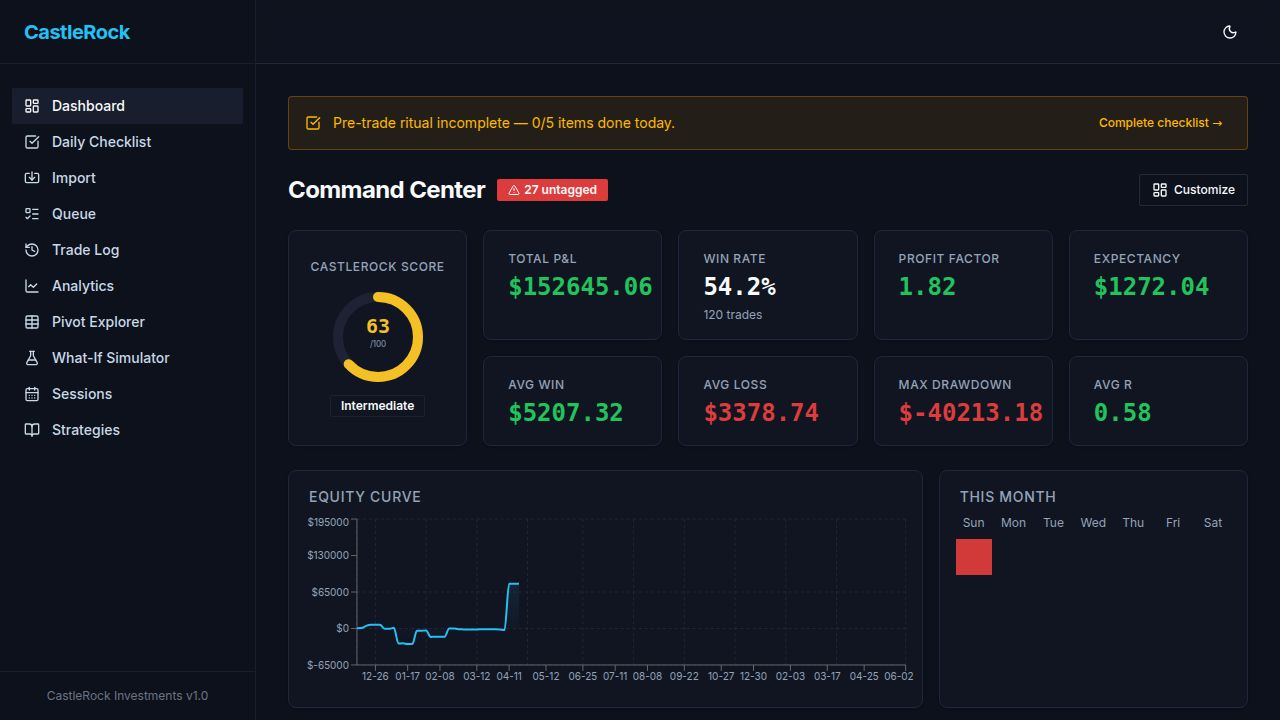
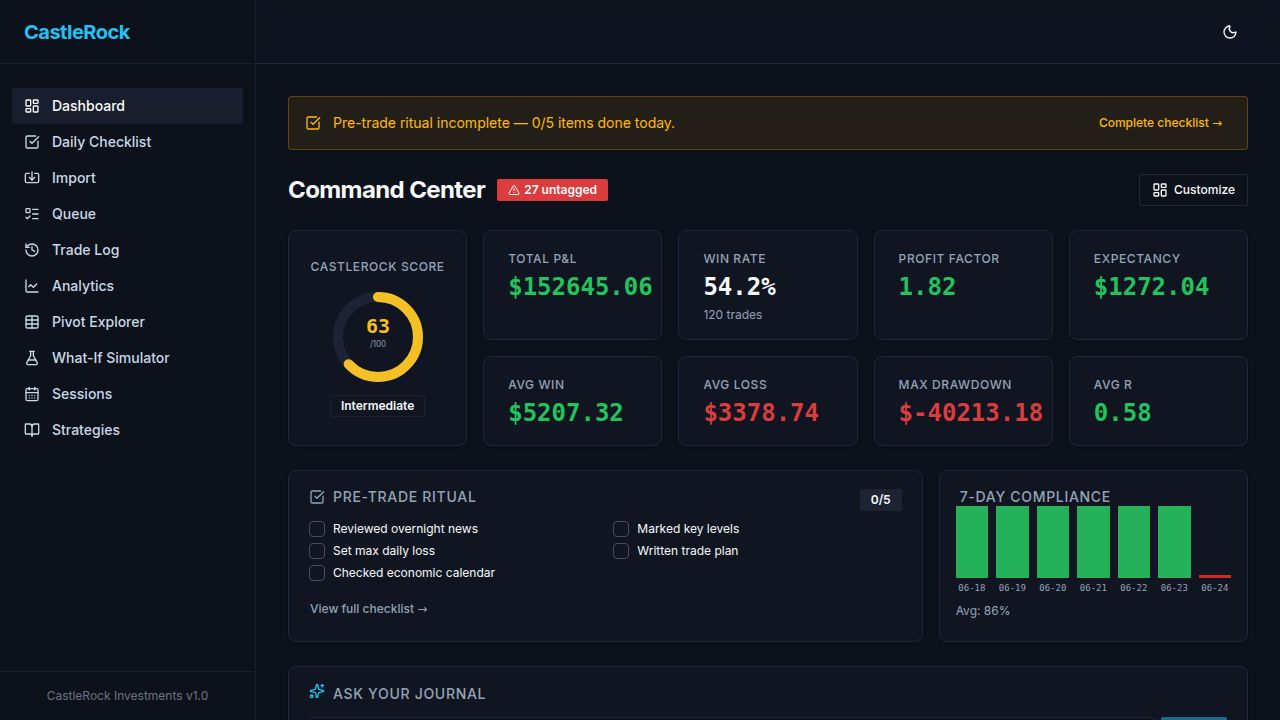
feat(task-16): R-Multiple Distribution histogram with normal curve overlay

diff --git a/artifacts/castlerock/src/pages/Analytics.tsx b/artifacts/castlerock/src/pages/Analytics.tsx
@@ -14,6 +14,7 @@ import { Tabs, TabsContent, TabsList, TabsTrigger } from "@/components/ui/tabs";
 import {
   BarChart, Bar, XAxis, YAxis, Tooltip, ResponsiveContainer, CartesianGrid,
   AreaChart, Area, Cell, PieChart, Pie, LineChart, Line, ReferenceLine,
+  ComposedChart,
 } from "recharts";
 import { ArrowUpRight, ArrowDownRight, Zap, Lightbulb, TrendingUp, TrendingDown, Brain, RefreshCw, Search, Sparkles, Clock, X } from "lucide-react";
 
@@ -22,6 +23,36 @@ const fmt = (n: number, prefix = "$") => `${prefix}${Math.abs(n).toFixed(2)}`;
 const pct = (n: number) => `${(n * 100).toFixed(1)}%`;
 
 const DOW_LABELS = ["Mon", "Tue", "Wed", "Thu", "Fri", "Sat", "Sun"];
+
+interface RDistBin {
+  label: string;
+  binStart: number;
+  binEnd: number;
+  midpoint: number;
+  count: number;
+  isProfit: boolean;
+  normalY?: number;
+}
+
+interface RDistStats {
+  avgR: number;
+  medianR: number;
+  pctAbove1R: number;
+  breakevenWinRate: number;
+  totalWithR: number;
+  stdDev: number;
+  mean: number;
+}
+
+interface RDistData {
+  bins: RDistBin[];
+  stats: RDistStats;
+}
+
+function normalPdf(x: number, mean: number, stdDev: number): number {
+  if (stdDev === 0) return 0;
+  return (1 / (stdDev * Math.sqrt(2 * Math.PI))) * Math.exp(-0.5 * Math.pow((x - mean) / stdDev, 2));
+}
 
 interface TimeCell {
   dayOfWeek: number;
@@ -191,6 +222,7 @@ export default function Analytics() {
   const [nlqHistory, setNlqHistory] = useState<string[]>(getNlqHistory);
 
   const [byTime, setByTime] = useState<TimeCell[]>([]);
+  const [rDist, setRDist] = useState<RDistData | null>(null);
   const [checklistCompliance, setChecklistCompliance] = useState<number | null>(null);
 
   useEffect(() => {
@@ -212,6 +244,27 @@ export default function Analytics() {
     fetch(`/api/analytics/by-time${qs.size ? "?" + qs.toString() : ""}`)
       .then((r) => r.ok ? r.json() : [])
       .then((data) => setByTime(Array.isArray(data) ? data : []))
+      .catch(() => {});
+  }, [dateFrom, dateTo]);
+
+  useEffect(() => {
+    const qs = new URLSearchParams();
+    if (dateFrom) qs.set("dateFrom", dateFrom);
+    if (dateTo) qs.set("dateTo", dateTo);
+    fetch(`/api/analytics/r-distribution${qs.size ? "?" + qs.toString() : ""}`)
+      .then((r) => r.ok ? r.json() : null)
+      .then((data: RDistData | null) => {
+        if (data && Array.isArray(data.bins)) {
+          const binSize = 0.5;
+          const binsWithCurve = data.bins.map((bin) => ({
+            ...bin,
+            normalY: normalPdf(bin.midpoint, data.stats.mean, data.stats.stdDev) * data.stats.totalWithR * binSize,
+          }));
+          setRDist({ ...data, bins: binsWithCurve });
+        } else {
+          setRDist(null);
+        }
+      })
       .catch(() => {});
   }, [dateFrom, dateTo]);
 
@@ -384,6 +437,99 @@ export default function Analytics() {
                   </CardContent>
                 </Card>
               </div>
+
+              {/* ── R-Multiple Distribution ── */}
+              <Card>
+                <CardHeader className="pb-2 pt-4 px-5">
+                  <CardTitle className="text-sm font-medium text-muted-foreground uppercase tracking-wider">R-Multiple Distribution</CardTitle>
+                  <p className="text-xs text-muted-foreground mt-0.5">Histogram of trade outcomes · normal curve overlay · based on trades with a defined stop loss</p>
+                </CardHeader>
+                <CardContent className="px-5 pb-5">
+                  {(!rDist || rDist.bins.length === 0) ? (
+                    <div className="h-40 flex items-center justify-center text-muted-foreground text-sm">
+                      No trades with R-multiples yet — add a stop loss to your trades to see this chart
+                    </div>
+                  ) : (
+                    <>
+                      {/* Stat callouts */}
+                      <div className="grid grid-cols-4 gap-3 mb-5">
+                        <div className="rounded-lg bg-muted/40 px-4 py-3 space-y-0.5">
+                          <p className="text-[10px] font-medium text-muted-foreground uppercase tracking-wider">Avg R</p>
+                          <p className={`text-lg font-bold font-mono tabular-nums ${rDist.stats.avgR >= 0 ? "text-success" : "text-destructive"}`}>
+                            {rDist.stats.avgR >= 0 ? "+" : ""}{rDist.stats.avgR.toFixed(2)}R
+                          </p>
+                        </div>
+                        <div className="rounded-lg bg-muted/40 px-4 py-3 space-y-0.5">
+                          <p className="text-[10px] font-medium text-muted-foreground uppercase tracking-wider">Median R</p>
+                          <p className={`text-lg font-bold font-mono tabular-nums ${rDist.stats.medianR >= 0 ? "text-success" : "text-destructive"}`}>
+                            {rDist.stats.medianR >= 0 ? "+" : ""}{rDist.stats.medianR.toFixed(2)}R
+                          </p>
+                        </div>
+                        <div className="rounded-lg bg-muted/40 px-4 py-3 space-y-0.5">
+                          <p className="text-[10px] font-medium text-muted-foreground uppercase tracking-wider">% Above 1R</p>
+                          <p className={`text-lg font-bold font-mono tabular-nums ${rDist.stats.pctAbove1R >= 0.3 ? "text-success" : "text-muted-foreground"}`}>
+                            {(rDist.stats.pctAbove1R * 100).toFixed(1)}%
+                          </p>
+                        </div>
+                        <div className="rounded-lg bg-muted/40 px-4 py-3 space-y-0.5">
+                          <p className="text-[10px] font-medium text-muted-foreground uppercase tracking-wider">Breakeven Win Rate</p>
+                          <p className="text-lg font-bold font-mono tabular-nums">
+                            {(rDist.stats.breakevenWinRate * 100).toFixed(1)}%
+                          </p>
+                          <p className="text-[10px] text-muted-foreground">needed to break even</p>
+                        </div>
+                      </div>
+
+                      {/* Histogram + normal curve */}
+                      <ResponsiveContainer width="100%" height={220}>
+                        <ComposedChart data={rDist.bins} margin={{ top: 4, right: 8, left: 0, bottom: 0 }}>
+                          <CartesianGrid strokeDasharray="3 3" stroke="hsl(var(--border))" vertical={false} />
+                          <XAxis
+                            dataKey="label"
+                            tick={{ fontSize: 9 }}
+                            interval={Math.max(0, Math.floor(rDist.bins.length / 12) - 1)}
+                            tickLine={false}
+                          />
+                          <YAxis tick={{ fontSize: 10 }} allowDecimals={false} width={28} />
+                          <Tooltip
+                            content={({ active, payload }) => {
+                              if (!active || !payload?.length) return null;
+                              const bin = payload[0]?.payload as RDistBin;
+                              return (
+                                <div className="bg-card border border-border rounded-lg shadow-lg px-3 py-2 text-xs space-y-0.5">
+                                  <p className="font-semibold">{bin.binStart >= 0 ? "+" : ""}{bin.binStart.toFixed(1)}R to {bin.binEnd >= 0 ? "+" : ""}{bin.binEnd.toFixed(1)}R</p>
+                                  <p className={bin.isProfit ? "text-success" : "text-destructive"}>{bin.count} trade{bin.count !== 1 ? "s" : ""}</p>
+                                </div>
+                              );
+                            }}
+                          />
+                          <ReferenceLine x="+0.0R" stroke="hsl(var(--muted-foreground))" strokeDasharray="4 3" strokeWidth={1.5} label={{ value: "0R", position: "top", fontSize: 9, fill: "hsl(var(--muted-foreground))" }} />
+                          <ReferenceLine x="+1.0R" stroke="hsl(var(--primary))" strokeDasharray="4 3" strokeWidth={1.5} label={{ value: "1R", position: "top", fontSize: 9, fill: "hsl(var(--primary))" }} />
+                          <Bar dataKey="count" maxBarSize={32} radius={[2, 2, 0, 0]}>
+                            {rDist.bins.map((bin, i) => (
+                              <Cell key={i} fill={bin.isProfit ? "hsl(var(--chart-2))" : "hsl(var(--chart-5))"} fillOpacity={0.85} />
+                            ))}
+                          </Bar>
+                          <Line
+                            dataKey="normalY"
+                            type="monotone"
+                            stroke="hsl(var(--primary))"
+                            strokeWidth={2}
+                            dot={false}
+                            strokeOpacity={0.7}
+                          />
+                        </ComposedChart>
+                      </ResponsiveContainer>
+                      <div className="flex items-center gap-4 mt-2 justify-end text-[10px] text-muted-foreground">
+                        <span className="flex items-center gap-1.5"><span className="inline-block w-3 h-3 rounded-sm bg-[hsl(var(--chart-2))]" />Profit</span>
+                        <span className="flex items-center gap-1.5"><span className="inline-block w-3 h-3 rounded-sm bg-[hsl(var(--chart-5))]" />Loss</span>
+                        <span className="flex items-center gap-1.5"><span className="inline-block w-4 h-0.5 bg-primary opacity-70" />Normal curve</span>
+                        <span className="text-muted-foreground">{rDist.stats.totalWithR} trades with R</span>
+                      </div>
+                    </>
+                  )}
+                </CardContent>
+              </Card>
             </>
           )}
         </TabsContent>

diff --git a/artifacts/api-server/src/routes/analytics.ts b/artifacts/api-server/src/routes/analytics.ts
@@ -470,4 +470,61 @@ router.post("/analytics/whatif", async (req, res) => {
   });
 });
 
+router.get("/analytics/r-distribution", async (req, res) => {
+  const opts = parseQP(req.query as Record<string, string>);
+  const trades = await fetchTrades(opts);
+  const rTrades = trades.filter((t) => t.rMultiple != null && t.pnl != null);
+
+  if (rTrades.length < 2) {
+    return res.json({
+      bins: [],
+      stats: { avgR: 0, medianR: 0, pctAbove1R: 0, breakevenWinRate: 0.5, totalWithR: rTrades.length, stdDev: 0, mean: 0 },
+    });
+  }
+
+  const rValues = rTrades.map((t) => t.rMultiple!);
+  const mean = rValues.reduce((s, r) => s + r, 0) / rValues.length;
+  const sorted = [...rValues].sort((a, b) => a - b);
+  const median = sorted.length % 2 === 0
+    ? (sorted[sorted.length / 2 - 1]! + sorted[sorted.length / 2]!) / 2
+    : sorted[Math.floor(sorted.length / 2)]!;
+  const variance = rValues.reduce((s, r) => s + (r - mean) ** 2, 0) / (rValues.length - 1);
+  const stdDev = Math.sqrt(variance);
+  const pctAbove1R = rValues.filter((r) => r >= 1).length / rValues.length;
+
+  const winsR = rValues.filter((r) => r > 0);
+  const lossesR = rValues.filter((r) => r <= 0).map(Math.abs);
+  const avgWinR = winsR.length > 0 ? winsR.reduce((s, r) => s + r, 0) / winsR.length : 1;
+  const avgLossR = lossesR.length > 0 ? lossesR.reduce((s, r) => s + r, 0) / lossesR.length : 1;
+  const breakevenWinRate = avgWinR + avgLossR > 0 ? avgLossR / (avgWinR + avgLossR) : 0.5;
+
+  const BIN = 0.5;
+  let binStart = Math.max(Math.floor(Math.min(...rValues) / BIN) * BIN, -10);
+  let binEnd = Math.min(Math.ceil(Math.max(...rValues) / BIN) * BIN, 20);
+  binStart = Math.min(binStart, -1);
+  binEnd = Math.max(binEnd, 2);
+
+  const bins = [];
+  for (let b = binStart; b < binEnd - 0.001; b = Math.round((b + BIN) * 10000) / 10000) {
+    const bNext = Math.round((b + BIN) * 10000) / 10000;
+    const count = rValues.filter((r) => r >= b && r < bNext).length;
+    const midpoint = Math.round((b + BIN / 2) * 10000) / 10000;
+    const sign = b >= 0 ? "+" : "";
+    bins.push({ label: `${sign}${b.toFixed(1)}R`, binStart: b, binEnd: bNext, midpoint, count, isProfit: midpoint >= 0 });
+  }
+
+  res.json({
+    bins,
+    stats: {
+      avgR: Math.round(mean * 1000) / 1000,
+      medianR: Math.round(median * 1000) / 1000,
+      pctAbove1R: Math.round(pctAbove1R * 10000) / 10000,
+      breakevenWinRate: Math.round(breakevenWinRate * 10000) / 10000,
+      totalWithR: rTrades.length,
+      stdDev: Math.round(stdDev * 1000) / 1000,
+      mean: Math.round(mean * 1000) / 1000,
+    },
+  });
+});
+
 export default router;

diff --git a/artifacts/py-api/api/analytics_routes.py b/artifacts/py-api/api/analytics_routes.py
@@ -304,3 +304,87 @@ def get_castlerock_score(
             "ruleAdherenceRate": overview["ruleAdherenceRate"],
         },
     }
+
+
[email redacted]("/r-distribution")
+def get_r_distribution(
+    accountId: Optional[int] = Query(None),
+    dateFrom: Optional[str] = Query(None),
+    dateTo: Optional[str] = Query(None),
+    db: Session = Depends(get_db),
+):
+    import math
+    import statistics as stats_lib
+
+    trades = fetch_trades_dicts(db, accountId, dateFrom, dateTo)
+    r_trades = [t for t in trades if t.get("r_multiple") is not None and t.get("pnl") is not None]
+
+    if len(r_trades) < 2:
+        return {
+            "bins": [],
+            "stats": {
+                "avgR": 0.0,
+                "medianR": 0.0,
+                "pctAbove1R": 0.0,
+                "breakevenWinRate": 0.5,
+                "totalWithR": len(r_trades),
+                "stdDev": 0.0,
+                "mean": 0.0,
+            },
+        }
+
+    r_values = [float(t["r_multiple"]) for t in r_trades]
+    mean_val = sum(r_values) / len(r_values)
+    median_val = stats_lib.median(r_values)
+    std_dev = stats_lib.stdev(r_values) if len(r_values) > 1 else 0.0
+    pct_above_1r = sum(1 for r in r_values if r >= 1.0) / len(r_values)
+
+    wins_r = [r for r in r_values if r > 0]
+    losses_r = [abs(r) for r in r_values if r <= 0]
+    avg_win_r = sum(wins_r) / len(wins_r) if wins_r else 1.0
+    avg_loss_r = sum(losses_r) / len(losses_r) if losses_r else 1.0
+    breakeven_wr = avg_loss_r / (avg_win_r + avg_loss_r) if (avg_win_r + avg_loss_r) > 0 else 0.5
+
+    bin_size = 0.5
+    r_min = min(r_values)
+    r_max = max(r_values)
+
+    bin_start = math.floor(r_min / bin_size) * bin_size
+    bin_end = math.ceil(r_max / bin_size) * bin_size
+
+    # Always show at least -1R to +2R
+    bin_start = min(bin_start, -1.0)
+    bin_end = max(bin_end, 2.0)
+    # Clamp to sane extremes
+    bin_start = max(bin_start, -10.0)
+    bin_end = min(bin_end, 20.0)
+
+    bins = []
+    b = bin_start
+    while b < bin_end - 0.001:
+        b_next = round(b + bin_size, 4)
+        count = sum(1 for r in r_values if b <= r < b_next)
+        midpoint = round(b + bin_size / 2, 4)
+        label = f"{b:+.1f}R"
+        bins.append({
+            "label": label,
+            "binStart": round(b, 4),
+            "binEnd": b_next,
+            "midpoint": midpoint,
+            "count": count,
+            "isProfit": midpoint >= 0,
+        })
+        b = b_next
+
+    return {
+        "bins": bins,
+        "stats": {
+            "avgR": round(mean_val, 3),
+            "medianR": round(median_val, 3),
+            "pctAbove1R": round(pct_above_1r, 4),
+            "breakevenWinRate": round(breakeven_wr, 4),
+            "totalWithR": len(r_trades),
+            "stdDev": round(std_dev, 3),
+            "mean": round(mean_val, 3),
+        },
+    }